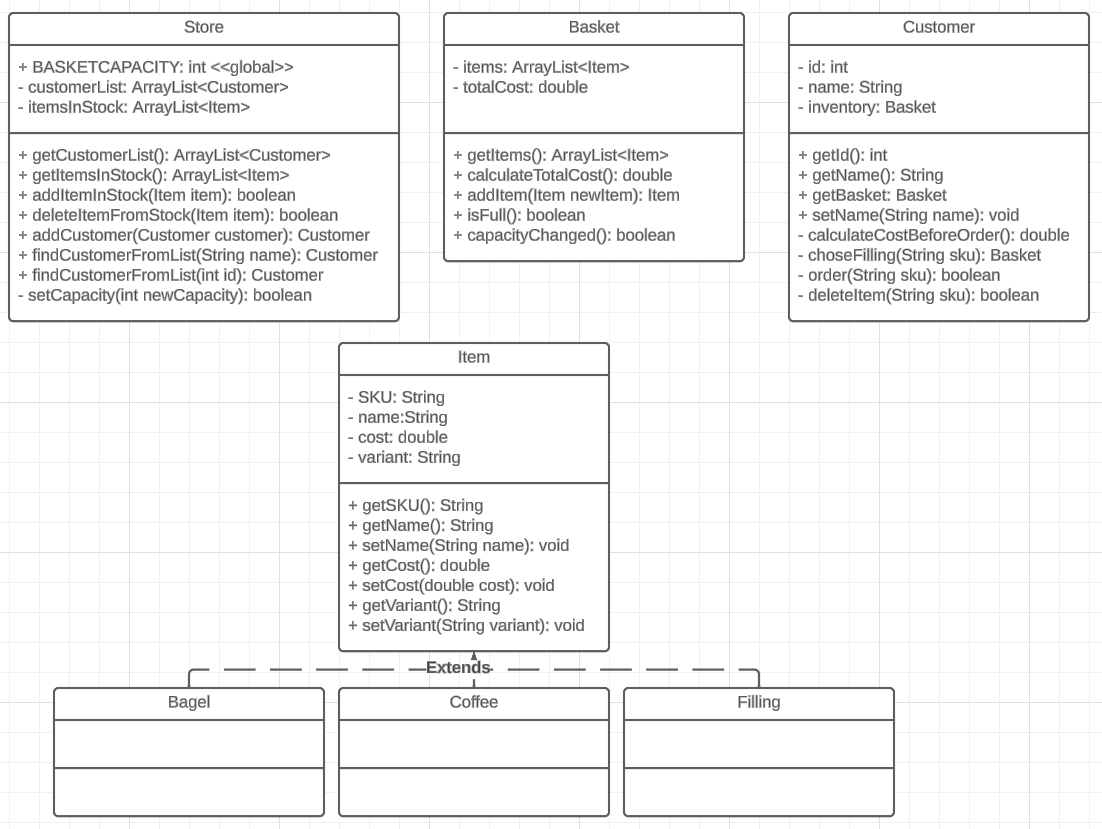
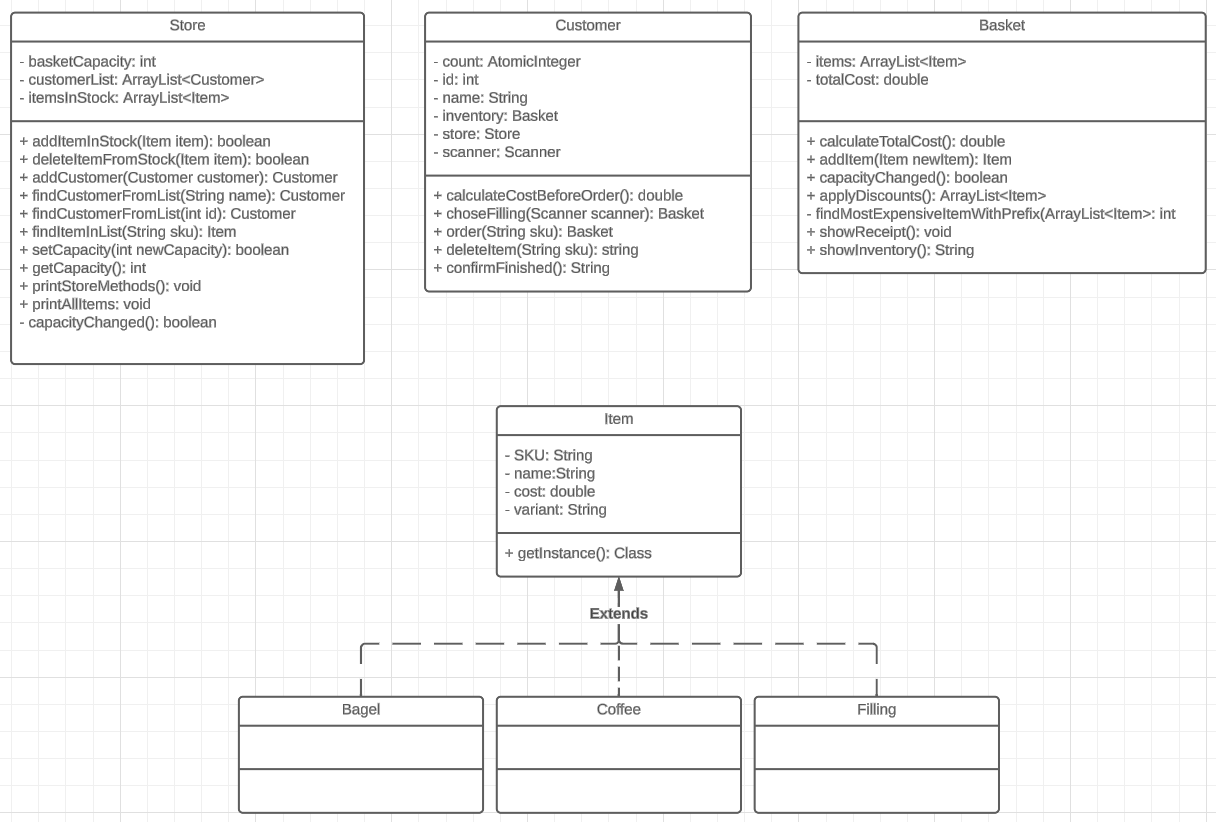
Extension 3 done Cleaned up code Class-diagram updated

diff --git a/src/main/java/com/booleanuk/core/Basket.java b/src/main/java/com/booleanuk/core/Basket.java
@@ -9,6 +9,7 @@ public class Basket {
     private HashMap<String, Integer> itemCounterForDiscount;
     private HashMap<Item, Integer> itemCounterForReceipt;
     private double totalCost;
+    private double costBeforeDiscounts;
     private Customer customer;
 
     public Basket(Customer customer) {
@@ -22,9 +23,7 @@ public class Basket {
     public ArrayList<Item> getItems() {
         return items;
     }
-    public Customer getCustomer() {
-        return customer;
-    }
+
 
     /*
     Updates the prices for the items, according to the given discounts
@@ -32,17 +31,20 @@ public class Basket {
     return: (double) updatedCostOfAllItemsInBasket
      */
     public double calculateTotalCost() {
-        this.items = applyDiscounts();
+        this.costBeforeDiscounts = 0;
         for(Item item : items) {
-            System.out.println(item);
+            this.costBeforeDiscounts += item.getCost();
         }
-        this.totalCost = 0;
+
+        this.items = applyDiscounts();
+        double tempCost = 0;
         if(!this.items.isEmpty()) {
             for(Item item : items) {
-                this.totalCost += item.getCost();
+                tempCost += item.getCost();
             }
         }
-        System.out.println("Your total is: £" + String.format("%.2f", totalCost));
+        this.totalCost = tempCost;
+
         return this.totalCost;
     }
 
@@ -75,9 +77,9 @@ public class Basket {
     }
 
     public ArrayList<Item> applyDiscounts() {
+
         ArrayList<Item> tempArray = items;
         tempArray.sort(Comparator.comparing(Item::getSKU));
-        double savedMoney = 0;
 
         // make an HashMap that counts occurrences of items
         for(Item item : tempArray) {
@@ -196,7 +198,12 @@ public class Basket {
         System.out.println("\n----------------------------------------------\n");
         System.out.println(showInventory());
         System.out.println("\n----------------------------------------------");
-        calculateTotalCost();
+
+        System.out.println("Your total is £" + String.format("%.2f", totalCost));
+        if(totalCost != costBeforeDiscounts) {
+            System.out.println("You saved £" + String.format("%.2f", costBeforeDiscounts-totalCost) + " on this purchase!" );
+        }
+
         System.out.println("\nThank you for your order!");
     }
 
@@ -204,7 +211,7 @@ public class Basket {
     Returns a String made for printing all items in Basket to console
      */
     public String showInventory() {
-        String inventoryString = "";
+        StringBuilder inventoryString = new StringBuilder();
 
         for(Item item : items) {
             if(itemCounterForReceipt.containsKey(item)) {
@@ -215,14 +222,19 @@ public class Basket {
         }
 
         if(!this.itemCounterForReceipt.isEmpty()) {
-            System.out.println("Quantity\tSKU\t\tCost\tName\tVariant\t\tTotal");
+            System.out.println("Quantity\tSKU\t\tCost\tName\tVariant\t\t\tTotal");
             for(Map.Entry<Item, Integer> item : itemCounterForReceipt.entrySet()) {
-                inventoryString += "\t" + item.getValue() + "\t\t" + item.getKey().toString() + "\t\t" + String.format("%.2f", item.getValue()*item.getKey().getCost())+ "\n";
+                inventoryString.append(String.format(
+                        "\t%-7s %-32s £%.2f%n",
+                        item.getValue(),
+                        item.getKey().toString(),
+                        item.getValue() * item.getKey().getCost()
+                ));
             }
         }
-        if(inventoryString.isEmpty()) {
-            inventoryString = "There are no items in basket... ";
+        if(inventoryString.length() == 0) {
+            inventoryString = new StringBuilder("There are no items in basket... ");
         }
-        return inventoryString;
+        return inventoryString.toString();
     }
 }

diff --git a/src/main/java/com/booleanuk/core/main.java b/src/main/java/com/booleanuk/core/main.java
@@ -1,69 +1,12 @@
 package com.booleanuk.core;
 
-import java.util.ArrayList;
 import java.util.Scanner;
 
 public class main {
     public static void main(String[] args) {
-        Store store = new Store(15);
-        Customer customer = new Customer("Espen", store);
-        Basket basket = new Basket(customer);
-        /*
-        customer.order("BGLE");
-        customer.order("BGLE");
-        customer.order("BGLE");
-        customer.order("BGLE");
 
-        customer.order("BGLS");
-        customer.order("BGLS");
-        customer.order("BGLS");
-
-        customer.order("COFL");
-        customer.order("COFW");
-
-        customer.finishedOrdering();
-        customer.calculateCostBeforeOrder();
-        customer.confirmFinished();
-*/
-        /*
-        ArrayList<Item> items = basket.getItems();
-        items.add(new Bagel("BGLE", 0.49, "Bagel", "Everything"));
-        items.add(new Bagel("BGLE", 0.49, "Bagel", "Everything"));
-        items.add(new Bagel("BGLE", 0.49, "Bagel", "Everything"));
-
-        items.add(new Bagel("BGLS", 0.49, "Bagel", "Sesame"));
-        items.add(new Bagel("BGLS", 0.49, "Bagel", "Sesame"));
-        items.add(new Bagel("BGLS", 0.49, "Bagel", "Sesame"));
-        items.add(new Bagel("BGLS", 0.49, "Bagel", "Sesame"));
-        items.add(new Bagel("BGLS", 0.49, "Bagel", "Sesame"));
-        items.add(new Bagel("BGLS", 0.49, "Bagel", "Sesame"));
-        items.add(new Bagel("BGLS", 0.49, "Bagel", "Sesame"));
-        items.add(new Bagel("BGLS", 0.49, "Bagel", "Sesame"));
-        items.add(new Bagel("BGLS", 0.49, "Bagel", "Sesame"));
-        items.add(new Bagel("BGLS", 0.49, "Bagel", "Sesame"));
-        items.add(new Bagel("BGLS", 0.49, "Bagel", "Sesame"));
-        items.add(new Bagel("BGLS", 0.49, "Bagel", "Sesame"));
-
-        items.add(new Coffee("COFB", 0.99, "Coffee", "Black"));
-
-        items.add(new Coffee("COFC", 1.29, "Coffee", "Cappuccino"));
-
-        items.add(new Coffee("COFL", 1.29, "Coffee", "Latte"));
-        items.add(new Coffee("COFL", 1.29, "Coffee", "Latte"));
-
-        items.add(new Coffee("COFW", 1.19, "Coffee", "White"));
-        items.add(new Coffee("COFW", 1.19, "Coffee", "White"));
-
-        items.add(new Filling("FILB", 0.12, "Filling", "Bacon"));
-        items.add(new Filling("FILB", 0.12, "Filling", "Bacon"));
-        items.add(new Filling("FILB", 0.12, "Filling", "Bacon"));
-*/
-
-
-    //    System.out.println(basket.applyDiscounts());
         main main = new main();
         main.start();
-
 
     }
 

diff --git a/src/main/java/com/booleanuk/core/Store.java b/src/main/java/com/booleanuk/core/Store.java
@@ -27,16 +27,13 @@ public class Store {
             add(new Filling("FILS", 0.12, "Filling", "Smoked Salmon"));
             add(new Filling("FILH", 0.12, "Filling", "Ham"));
         }};
-        this.customerList = new ArrayList<Customer>();
+        this.customerList = new ArrayList<>();
     }
 
     public ArrayList<Item> getItemsInStock() {
         return itemsInStock;
     }
 
-    public ArrayList<Customer> getCustomerList() {
-        return customerList;
-    }
 
     private boolean addItemInStock(String sku, double cost, String name, String variant) {
         switch (name) {

diff --git a/src/main/java/com/booleanuk/core/Item.java b/src/main/java/com/booleanuk/core/Item.java
@@ -23,10 +23,6 @@ public abstract class Item {
         return name;
     }
 
-    public void setName(String name) {
-        this.name = name;
-    }
-
     public double getCost() {
         return cost;
     }
@@ -37,10 +33,6 @@ public abstract class Item {
 
     public String getVariant() {
         return variant;
-    }
-
-    public void setVariant(String variant) {
-        this.variant = variant;
     }
 
     public boolean isDiscounted() {

diff --git a/src/test/java/com/booleanuk/core/CoreTest.java b/src/test/java/com/booleanuk/core/CoreTest.java
@@ -184,7 +184,6 @@ class CoreTest {
 
     @Test
     public void wrongInputInOrderGivesFalse() {
-        Basket basket = customer.getInventory();
         Assertions.assertEquals(customer.getInventory(), customer.order("Hello there"));
     }
 }

diff --git a/src/main/java/com/booleanuk/core/Customer.java b/src/main/java/com/booleanuk/core/Customer.java
@@ -31,9 +31,6 @@ public class Customer {
         return inventory;
     }
 
-    public void setName(String name) {
-        this.name = name;
-    }
     public Store getStore() {
         return store;
     }

diff --git a/domain-model.md b/domain-model.md
@@ -148,8 +148,8 @@ I want the shop to automatically consider and apply the best discounts for me.
 
 
 
-| method                        | object variables                                        | context                                                                                                                                                   | output/return                               |
-|-------------------------------|---------------------------------------------------------|-----------------------------------------------------------------------------------------------------------------------------------------------------------|---------------------------------------------|
-| applyDiscounts(Basket basket) | Basket inventory</br>HashMap<Item, Integer> itemCounter | Put every item in Basket to HashMap and count each item in Basket. Copy ArrayList<Item>, apply discounts and remove items until copied ArrayList is empty | (ArrayList<Item> basketWithAppliedDiscounts |
+| method                        | object variables                                        | context                                                                                                                                                   | output/return                                |
+|-------------------------------|---------------------------------------------------------|-----------------------------------------------------------------------------------------------------------------------------------------------------------|----------------------------------------------|
+| applyDiscounts(Basket basket) | Basket inventory</br>HashMap<Item, Integer> itemCounter | Put every item in Basket to HashMap and count each item in Basket. Copy ArrayList<Item>, apply discounts and remove items until copied ArrayList is empty | (ArrayList<Item>) basketWithAppliedDiscounts |
 
 ---
